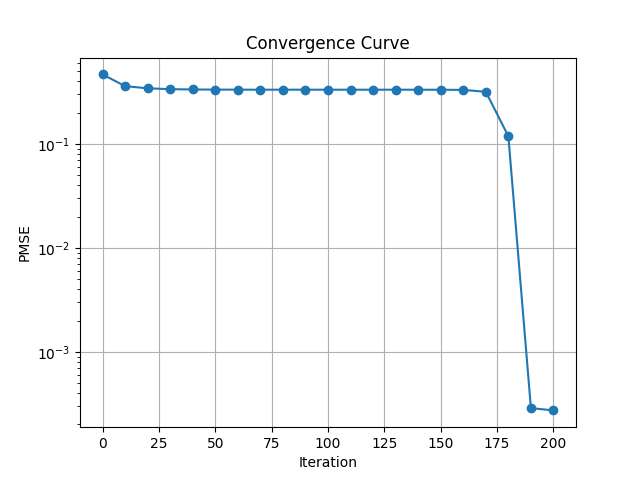
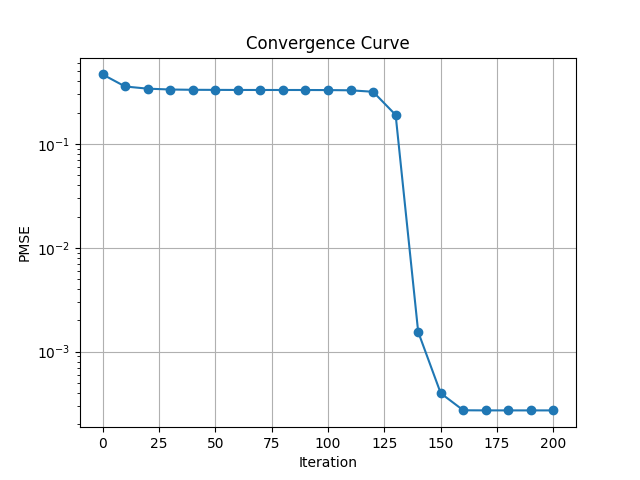
Update coded diffraction pattern example to use replicate() with ForkPropagator; verified image reconstruction

diff --git a/examples/scripts/coded_diffraction_pattern/results/graph.html b/examples/scripts/coded_diffraction_pattern/results/graph.html
@@ -18,10 +18,10 @@
     </script>
   </head>
   <body>
-    <div id="a2020c4d-887a-46b9-96d4-8581a7f252d2" data-root-id="p1012" style="display: contents;"></div>
+    <div id="ee065cf1-da5c-4bfa-bf98-d306f97d458b" data-root-id="p1012" style="display: contents;"></div>
   
-    <script type="application/json" id="aad2d40a-52ef-42b5-953d-aa531255dbfd">
-      {"eaed48ab-e2ff-4780-aabf-d3735261245a":{"version":"3.7.3","title":"Bokeh Application","roots":[{"type":"object","name":"Figure","id":"p1012","attributes":{"width":800,"x_range":{"type":"object","name":"DataRange1d","id":"p1013"},"y_range":{"type":"object","name":"DataRange1d","id":"p1014"},"x_scale":{"type":"object","name":"LinearScale","id":"p1022"},"y_scale":{"type":"object","name":"LinearScale","id":"p1023"},"title":{"type":"object","name":"Title","id":"p1015","attributes":{"text":"Computational Factor Graph"}},"renderers":[{"type":"object","name":"GlyphRenderer","id":"p1045","attributes":{"data_source":{"type":"object","name":"ColumnDataSource","id":"p1003","attributes":{"selected":{"type":"object","name":"Selection","id":"p1004","attributes":{"indices":[],"line_indices":[]}},"selection_policy":{"type":"object","name":"UnionRenderers","id":"p1005"},"data":{"type":"map","entries":[["x",[563.6,334.6,105.6,334.6,105.6,334.6,563.6,334.6,563.6,105.6,105.6,334.6,105.6,334.6,334.6,563.6,563.6]],["y",[-90.0,-378.0,-234.0,-234.0,-90.0,-90.0,-234.0,-450.0,-18.0,-306.0,-162.0,-162.0,-18.0,-18.0,-306.0,-306.0,-162.0]],["type",["wave","wave","wave","wave","wave","wave","wave","factor","factor","factor","factor","factor","factor","factor","factor","factor","factor"]],["label",["Wave","sample","Wave","Wave","Wave","Wave","Wave","GaussianPrior","measurement_1","MultiplyConstPropagator","FFT2DPropagator","FFT2DPropagator","measurement_2","measurement_0","MultiplyConstPropagator","MultiplyConstPropagator","FFT2DPropagator"]],["color",["skyblue","skyblue","skyblue","skyblue","skyblue","skyblue","skyblue","lightgreen","lightgreen","lightgreen","lightgreen","lightgreen","lightgreen","lightgreen","lightgreen","lightgreen","lightgreen"]]]}}},"view":{"type":"object","name":"CDSView","id":"p1007","attributes":{"filter":{"type":"object","name":"BooleanFilter","id":"p1006","attributes":{"booleans":[true,true,true,true,true,true,true,false,false,false,false,false,false,false,false,false,false]}}}},"glyph":{"type":"object","name":"Scatter","id":"p1042","attributes":{"x":{"type":"field","field":"x"},"y":{"type":"field","field":"y"},"size":{"type":"value","value":18},"line_color":{"type":"value","value":"skyblue"},"fill_color":{"type":"value","value":"skyblue"},"hatch_color":{"type":"value","value":"skyblue"}}},"nonselection_glyph":{"type":"object","name":"Scatter","id":"p1043","attributes":{"x":{"type":"field","field":"x"},"y":{"type":"field","field":"y"},"size":{"type":"value","value":18},"line_color":{"type":"value","value":"skyblue"},"line_alpha":{"type":"value","value":0.1},"fill_color":{"type":"value","value":"skyblue"},"fill_alpha":{"type":"value","value":0.1},"hatch_color":{"type":"value","value":"skyblue"},"hatch_alpha":{"type":"value","value":0.1}}},"muted_glyph":{"type":"object","name":"Scatter","id":"p1044","attributes":{"x":{"type":"field","field":"x"},"y":{"type":"field","field":"y"},"size":{"type":"value","value":18},"line_color":{"type":"value","value":"skyblue"},"line_alpha":{"type":"value","value":0.2},"fill_color":{"type":"value","value":"skyblue"},"fill_alpha":{"type":"value","value":0.2},"hatch_color":{"type":"value","value":"skyblue"},"hatch_alpha":{"type":"value","value":0.2}}}}},{"type":"object","name":"GlyphRenderer","id":"p1056","attributes":{"data_source":{"id":"p1003"},"view":{"type":"object","name":"CDSView","id":"p1010","attributes":{"filter":{"type":"object","name":"BooleanFilter","id":"p1009","attributes":{"booleans":[false,false,false,false,false,false,false,true,true,true,true,true,true,true,true,true,true]}}}},"glyph":{"type":"object","name":"Scatter","id":"p1053","attributes":{"x":{"type":"field","field":"x"},"y":{"type":"field","field":"y"},"size":{"type":"value","value":18},"line_color":{"type":"value","value":"lightgreen"},"fill_color":{"type":"value","value":"lightgreen"},"hatch_color":{"type":"value","value":"lightgreen"},"marker":{"type":"value","value":"square"}}},"nonselection_glyph":{"type":"object","name":"Scatter","id":"p1054","attributes":{"x":{"type":"field","field":"x"},"y":{"type":"field","field":"y"},"size":{"type":"value","value":18},"line_color":{"type":"value","value":"lightgreen"},"line_alpha":{"type":"value","value":0.1},"fill_color":{"type":"value","value":"lightgreen"},"fill_alpha":{"type":"value","value":0.1},"hatch_color":{"type":"value","value":"lightgreen"},"hatch_alpha":{"type":"value","value":0.1},"marker":{"type":"value","value":"square"}}},"muted_glyph":{"type":"object","name":"Scatter","id":"p1055","attributes":{"x":{"type":"field","field":"x"},"y":{"type":"field","field":"y"},"size":{"type":"value","value":18},"line_color":{"type":"value","value":"lightgreen"},"line_alpha":{"type":"value","value":0.2},"fill_color":{"type":"value","value":"lightgreen"},"fill_alpha":{"type":"value","value":0.2},"hatch_color":{"type":"value","value":"lightgreen"},"hatch_alpha":{"type":"value","value":0.2},"marker":{"type":"value","value":"square"}}}}}],"toolbar":{"type":"object","name":"Toolbar","id":"p1021","attributes":{"tools":[{"type":"object","name":"PanTool","id":"p1034"},{"type":"object","name":"ResetTool","id":"p1035"},{"type":"object","name":"ZoomInTool","id":"p1036","attributes":{"renderers":"auto"}},{"type":"object","name":"ZoomOutTool","id":"p1037","attributes":{"renderers":"auto"}},{"type":"object","name":"SaveTool","id":"p1038"}]}},"left":[{"type":"object","name":"LinearAxis","id":"p1029","attributes":{"visible":false,"ticker":{"type":"object","name":"BasicTicker","id":"p1030","attributes":{"mantissas":[1,2,5]}},"formatter":{"type":"object","name":"BasicTickFormatter","id":"p1031"},"major_label_policy":{"type":"object","name":"AllLabels","id":"p1032"}}}],"below":[{"type":"object","name":"LinearAxis","id":"p1024","attributes":{"visible":false,"ticker":{"type":"object","name":"BasicTicker","id":"p1025","attributes":{"mantissas":[1,2,5]}},"formatter":{"type":"object","name":"BasicTickFormatter","id":"p1026"},"major_label_policy":{"type":"object","name":"AllLabels","id":"p1027"}}}],"center":[{"type":"object","name":"Grid","id":"p1028","attributes":{"visible":false,"axis":{"id":"p1024"}}},{"type":"object","name":"Grid","id":"p1033","attributes":{"visible":false,"dimension":1,"axis":{"id":"p1029"}}},{"type":"object","name":"Legend","id":"p1048","attributes":{"visible":false,"items":[{"type":"object","name":"LegendItem","id":"p1049","attributes":{"label":{"type":"value","value":"Wave"},"renderers":[{"id":"p1045"}]}},{"type":"object","name":"LegendItem","id":"p1059","attributes":{"label":{"type":"value","value":"Factor"},"renderers":[{"id":"p1056"}]}}]}},{"type":"object","name":"LabelSet","id":"p1060","attributes":{"source":{"id":"p1003"},"x":{"type":"field","field":"x"},"y":{"type":"field","field":"y"},"text":{"type":"field","field":"label"},"y_offset":{"type":"value","value":12},"text_font_size":{"type":"value","value":"11pt"},"text_align":{"type":"value","value":"center"}}},{"type":"object","name":"Arrow","id":"p1065","attributes":{"source":{"type":"object","name":"ColumnDataSource","id":"p1067","attributes":{"selected":{"type":"object","name":"Selection","id":"p1068","attributes":{"indices":[],"line_indices":[]}},"selection_policy":{"type":"object","name":"UnionRenderers","id":"p1069"},"data":{"type":"map"}}},"x_start":{"type":"value","value":334.6},"y_start":{"type":"value","value":-450.0},"x_end":{"type":"value","value":334.6},"y_end":{"type":"value","value":-378.0},"end":{"type":"object","name":"NormalHead","id":"p1064","attributes":{"size":{"type":"value","value":6}}},"line_color":{"type":"value","value":"gray"},"line_alpha":{"type":"value","value":0.4},"line_width":{"type":"value","value":1.5}}},{"type":"object","name":"Arrow","id":"p1071","attributes":{"source":{"type":"object","name":"ColumnDataSource","id":"p1073","attributes":{"selected":{"type":"object","name":"Selection","id":"p1074","attributes":{"indices":[],"line_indices":[]}},"selection_policy":{"type":"object","name":"UnionRenderers","id":"p1075"},"data":{"type":"map"}}},"x_start":{"type":"value","value":563.6},"y_start":{"type":"value","value":-90.0},"x_end":{"type":"value","value":563.6},"y_end":{"type":"value","value":-18.0},"end":{"type":"object","name":"NormalHead","id":"p1070","attributes":{"size":{"type":"value","value":6}}},"line_color":{"type":"value","value":"gray"},"line_alpha":{"type":"value","value":0.4},"line_width":{"type":"value","value":1.5}}},{"type":"object","name":"Arrow","id":"p1077","attributes":{"source":{"type":"object","name":"ColumnDataSource","id":"p1079","attributes":{"selected":{"type":"object","name":"Selection","id":"p1080","attributes":{"indices":[],"line_indices":[]}},"selection_policy":{"type":"object","name":"UnionRenderers","id":"p1081"},"data":{"type":"map"}}},"x_start":{"type":"value","value":334.6},"y_start":{"type":"value","value":-378.0},"x_end":{"type":"value","value":105.6},"y_end":{"type":"value","value":-306.0},"end":{"type":"object","name":"NormalHead","id":"p1076","attributes":{"size":{"type":"value","value":6}}},"line_color":{"type":"value","value":"gray"},"line_alpha":{"type":"value","value":0.4},"line_width":{"type":"value","value":1.5}}},{"type":"object","name":"Arrow","id":"p1083","attributes":{"source":{"type":"object","name":"ColumnDataSource","id":"p1085","attributes":{"selected":{"type":"object","name":"Selection","id":"p1086","attributes":{"indices":[],"line_indices":[]}},"selection_policy":{"type":"object","name":"UnionRenderers","id":"p1087"},"data":{"type":"map"}}},"x_start":{"type":"value","value":105.6},"y_start":{"type":"value","value":-306.0},"x_end":{"type":"value","value":105.6},"y_end":{"type":"value","value":-234.0},"end":{"type":"object","name":"NormalHead","id":"p1082","attributes":{"size":{"type":"value","value":6}}},"line_color":{"type":"value","value":"gray"},"line_alpha":{"type":"value","value":0.4},"line_width":{"type":"value","value":1.5}}},{"type":"object","name":"Arrow","id":"p1089","attributes":{"source":{"type":"object","name":"ColumnDataSource","id":"p1091","attributes":{"selected":{"type":"object","name":"Selection","id":"p1092","attributes":{"indices":[],"line_indices":[]}},"selection_policy":{"type":"object","name":"UnionRenderers","id":"p1093"},"data":{"type":"map"}}},"x_start":{"type":"value","value":105.6},"y_start":{"type":"value","value":-234.0},"x_end":{"type":"value","value":105.6},"y_end":{"type":"value","value":-162.0},"end":{"type":"object","name":"NormalHead","id":"p1088","attributes":{"size":{"type":"value","value":6}}},"line_color":{"type":"value","value":"gray"},"line_alpha":{"type":"value","value":0.4},"line_width":{"type":"value","value":1.5}}},{"type":"object","name":"Arrow","id":"p1095","attributes":{"source":{"type":"object","name":"ColumnDataSource","id":"p1097","attributes":{"selected":{"type":"object","name":"Selection","id":"p1098","attributes":{"indices":[],"line_indices":[]}},"selection_policy":{"type":"object","name":"UnionRenderers","id":"p1099"},"data":{"type":"map"}}},"x_start":{"type":"value","value":105.6},"y_start":{"type":"value","value":-162.0},"x_end":{"type":"value","value":105.6},"y_end":{"type":"value","value":-90.0},"end":{"type":"object","name":"NormalHead","id":"p1094","attributes":{"size":{"type":"value","value":6}}},"line_color":{"type":"value","value":"gray"},"line_alpha":{"type":"value","value":0.4},"line_width":{"type":"value","value":1.5}}},{"type":"object","name":"Arrow","id":"p1101","attributes":{"source":{"type":"object","name":"ColumnDataSource","id":"p1103","attributes":{"selected":{"type":"object","name":"Selection","id":"p1104","attributes":{"indices":[],"line_indices":[]}},"selection_policy":{"type":"object","name":"UnionRenderers","id":"p1105"},"data":{"type":"map"}}},"x_start":{"type":"value","value":334.6},"y_start":{"type":"value","value":-234.0},"x_end":{"type":"value","value":334.6},"y_end":{"type":"value","value":-162.0},"end":{"type":"object","name":"NormalHead","id":"p1100","attributes":{"size":{"type":"value","value":6}}},"line_color":{"type":"value","value":"gray"},"line_alpha":{"type":"value","value":0.4},"line_width":{"type":"value","value":1.5}}},{"type":"object","name":"Arrow","id":"p1107","attributes":{"source":{"type":"object","name":"ColumnDataSource","id":"p1109","attributes":{"selected":{"type":"object","name":"Selection","id":"p1110","attributes":{"indices":[],"line_indices":[]}},"selection_policy":{"type":"object","name":"UnionRenderers","id":"p1111"},"data":{"type":"map"}}},"x_start":{"type":"value","value":334.6},"y_start":{"type":"value","value":-162.0},"x_end":{"type":"value","value":334.6},"y_end":{"type":"value","value":-90.0},"end":{"type":"object","name":"NormalHead","id":"p1106","attributes":{"size":{"type":"value","value":6}}},"line_color":{"type":"value","value":"gray"},"line_alpha":{"type":"value","value":0.4},"line_width":{"type":"value","value":1.5}}},{"type":"object","name":"Arrow","id":"p1113","attributes":{"source":{"type":"object","name":"ColumnDataSource","id":"p1115","attributes":{"selected":{"type":"object","name":"Selection","id":"p1116","attributes":{"indices":[],"line_indices":[]}},"selection_policy":{"type":"object","name":"UnionRenderers","id":"p1117"},"data":{"type":"map"}}},"x_start":{"type":"value","value":105.6},"y_start":{"type":"value","value":-90.0},"x_end":{"type":"value","value":105.6},"y_end":{"type":"value","value":-18.0},"end":{"type":"object","name":"NormalHead","id":"p1112","attributes":{"size":{"type":"value","value":6}}},"line_color":{"type":"value","value":"gray"},"line_alpha":{"type":"value","value":0.4},"line_width":{"type":"value","value":1.5}}},{"type":"object","name":"Arrow","id":"p1119","attributes":{"source":{"type":"object","name":"ColumnDataSource","id":"p1121","attributes":{"selected":{"type":"object","name":"Selection","id":"p1122","attributes":{"indices":[],"line_indices":[]}},"selection_policy":{"type":"object","name":"UnionRenderers","id":"p1123"},"data":{"type":"map"}}},"x_start":{"type":"value","value":334.6},"y_start":{"type":"value","value":-90.0},"x_end":{"type":"value","value":334.6},"y_end":{"type":"value","value":-18.0},"end":{"type":"object","name":"NormalHead","id":"p1118","attributes":{"size":{"type":"value","value":6}}},"line_color":{"type":"value","value":"gray"},"line_alpha":{"type":"value","value":0.4},"line_width":{"type":"value","value":1.5}}},{"type":"object","name":"Arrow","id":"p1125","attributes":{"source":{"type":"object","name":"ColumnDataSource","id":"p1127","attributes":{"selected":{"type":"object","name":"Selection","id":"p1128","attributes":{"indices":[],"line_indices":[]}},"selection_policy":{"type":"object","name":"UnionRenderers","id":"p1129"},"data":{"type":"map"}}},"x_start":{"type":"value","value":334.6},"y_start":{"type":"value","value":-378.0},"x_end":{"type":"value","value":334.6},"y_end":{"type":"value","value":-306.0},"end":{"type":"object","name":"NormalHead","id":"p1124","attributes":{"size":{"type":"value","value":6}}},"line_color":{"type":"value","value":"gray"},"line_alpha":{"type":"value","value":0.4},"line_width":{"type":"value","value":1.5}}},{"type":"object","name":"Arrow","id":"p1131","attributes":{"source":{"type":"object","name":"ColumnDataSource","id":"p1133","attributes":{"selected":{"type":"object","name":"Selection","id":"p1134","attributes":{"indices":[],"line_indices":[]}},"selection_policy":{"type":"object","name":"UnionRenderers","id":"p1135"},"data":{"type":"map"}}},"x_start":{"type":"value","value":334.6},"y_start":{"type":"value","value":-306.0},"x_end":{"type":"value","value":334.6},"y_end":{"type":"value","value":-234.0},"end":{"type":"object","name":"NormalHead","id":"p1130","attributes":{"size":{"type":"value","value":6}}},"line_color":{"type":"value","value":"gray"},"line_alpha":{"type":"value","value":0.4},"line_width":{"type":"value","value":1.5}}},{"type":"object","name":"Arrow","id":"p1137","attributes":{"source":{"type":"object","name":"ColumnDataSource","id":"p1139","attributes":{"selected":{"type":"object","name":"Selection","id":"p1140","attributes":{"indices":[],"line_indices":[]}},"selection_policy":{"type":"object","name":"UnionRenderers","id":"p1141"},"data":{"type":"map"}}},"x_start":{"type":"value","value":334.6},"y_start":{"type":"value","value":-378.0},"x_end":{"type":"value","value":563.6},"y_end":{"type":"value","value":-306.0},"end":{"type":"object","name":"NormalHead","id":"p1136","attributes":{"size":{"type":"value","value":6}}},"line_color":{"type":"value","value":"gray"},"line_alpha":{"type":"value","value":0.4},"line_width":{"type":"value","value":1.5}}},{"type":"object","name":"Arrow","id":"p1143","attributes":{"source":{"type":"object","name":"ColumnDataSource","id":"p1145","attributes":{"selected":{"type":"object","name":"Selection","id":"p1146","attributes":{"indices":[],"line_indices":[]}},"selection_policy":{"type":"object","name":"UnionRenderers","id":"p1147"},"data":{"type":"map"}}},"x_start":{"type":"value","value":563.6},"y_start":{"type":"value","value":-306.0},"x_end":{"type":"value","value":563.6},"y_end":{"type":"value","value":-234.0},"end":{"type":"object","name":"NormalHead","id":"p1142","attributes":{"size":{"type":"value","value":6}}},"line_color":{"type":"value","value":"gray"},"line_alpha":{"type":"value","value":0.4},"line_width":{"type":"value","value":1.5}}},{"type":"object","name":"Arrow","id":"p1149","attributes":{"source":{"type":"object","name":"ColumnDataSource","id":"p1151","attributes":{"selected":{"type":"object","name":"Selection","id":"p1152","attributes":{"indices":[],"line_indices":[]}},"selection_policy":{"type":"object","name":"UnionRenderers","id":"p1153"},"data":{"type":"map"}}},"x_start":{"type":"value","value":563.6},"y_start":{"type":"value","value":-234.0},"x_end":{"type":"value","value":563.6},"y_end":{"type":"value","value":-162.0},"end":{"type":"object","name":"NormalHead","id":"p1148","attributes":{"size":{"type":"value","value":6}}},"line_color":{"type":"value","value":"gray"},"line_alpha":{"type":"value","value":0.4},"line_width":{"type":"value","value":1.5}}},{"type":"object","name":"Arrow","id":"p1155","attributes":{"source":{"type":"object","name":"ColumnDataSource","id":"p1157","attributes":{"selected":{"type":"object","name":"Selection","id":"p1158","attributes":{"indices":[],"line_indices":[]}},"selection_policy":{"type":"object","name":"UnionRenderers","id":"p1159"},"data":{"type":"map"}}},"x_start":{"type":"value","value":563.6},"y_start":{"type":"value","value":-162.0},"x_end":{"type":"value","value":563.6},"y_end":{"type":"value","value":-90.0},"end":{"type":"object","name":"NormalHead","id":"p1154","attributes":{"size":{"type":"value","value":6}}},"line_color":{"type":"value","value":"gray"},"line_alpha":{"type":"value","value":0.4},"line_width":{"type":"value","value":1.5}}}]}}]}}
+    <script type="application/json" id="b33dd5ed-a03d-470c-9024-d944674525e5">
+      {"a03519e3-91a5-44a5-9546-2bd6b310779a":{"version":"3.7.3","title":"Bokeh Application","roots":[{"type":"object","name":"Figure","id":"p1012","attributes":{"width":800,"x_range":{"type":"object","name":"DataRange1d","id":"p1013"},"y_range":{"type":"object","name":"DataRange1d","id":"p1014"},"x_scale":{"type":"object","name":"LinearScale","id":"p1022"},"y_scale":{"type":"object","name":"LinearScale","id":"p1023"},"title":{"type":"object","name":"Title","id":"p1015","attributes":{"text":"Computational Factor Graph"}},"renderers":[{"type":"object","name":"GlyphRenderer","id":"p1045","attributes":{"data_source":{"type":"object","name":"ColumnDataSource","id":"p1003","attributes":{"selected":{"type":"object","name":"Selection","id":"p1004","attributes":{"indices":[],"line_indices":[]}},"selection_policy":{"type":"object","name":"UnionRenderers","id":"p1005"},"data":{"type":"map","entries":[["x",[105.6,105.6,105.6,105.6,105.6,105.6,105.6,105.6,105.6]],["y",[-522.0,-234.0,-90.0,-378.0,-594.0,-306.0,-450.0,-18.0,-162.0]],["type",["wave","wave","wave","wave","factor","factor","factor","factor","factor"]],["label",["sample","Wave","Wave","Wave","GaussianPrior","MultiplyConstPropagator","ForkPropagator","measurement_0","FFT2DPropagator"]],["color",["skyblue","skyblue","skyblue","skyblue","lightgreen","lightgreen","lightgreen","lightgreen","lightgreen"]]]}}},"view":{"type":"object","name":"CDSView","id":"p1007","attributes":{"filter":{"type":"object","name":"BooleanFilter","id":"p1006","attributes":{"booleans":[true,true,true,true,false,false,false,false,false]}}}},"glyph":{"type":"object","name":"Scatter","id":"p1042","attributes":{"x":{"type":"field","field":"x"},"y":{"type":"field","field":"y"},"size":{"type":"value","value":18},"line_color":{"type":"value","value":"skyblue"},"fill_color":{"type":"value","value":"skyblue"},"hatch_color":{"type":"value","value":"skyblue"}}},"nonselection_glyph":{"type":"object","name":"Scatter","id":"p1043","attributes":{"x":{"type":"field","field":"x"},"y":{"type":"field","field":"y"},"size":{"type":"value","value":18},"line_color":{"type":"value","value":"skyblue"},"line_alpha":{"type":"value","value":0.1},"fill_color":{"type":"value","value":"skyblue"},"fill_alpha":{"type":"value","value":0.1},"hatch_color":{"type":"value","value":"skyblue"},"hatch_alpha":{"type":"value","value":0.1}}},"muted_glyph":{"type":"object","name":"Scatter","id":"p1044","attributes":{"x":{"type":"field","field":"x"},"y":{"type":"field","field":"y"},"size":{"type":"value","value":18},"line_color":{"type":"value","value":"skyblue"},"line_alpha":{"type":"value","value":0.2},"fill_color":{"type":"value","value":"skyblue"},"fill_alpha":{"type":"value","value":0.2},"hatch_color":{"type":"value","value":"skyblue"},"hatch_alpha":{"type":"value","value":0.2}}}}},{"type":"object","name":"GlyphRenderer","id":"p1056","attributes":{"data_source":{"id":"p1003"},"view":{"type":"object","name":"CDSView","id":"p1010","attributes":{"filter":{"type":"object","name":"BooleanFilter","id":"p1009","attributes":{"booleans":[false,false,false,false,true,true,true,true,true]}}}},"glyph":{"type":"object","name":"Scatter","id":"p1053","attributes":{"x":{"type":"field","field":"x"},"y":{"type":"field","field":"y"},"size":{"type":"value","value":18},"line_color":{"type":"value","value":"lightgreen"},"fill_color":{"type":"value","value":"lightgreen"},"hatch_color":{"type":"value","value":"lightgreen"},"marker":{"type":"value","value":"square"}}},"nonselection_glyph":{"type":"object","name":"Scatter","id":"p1054","attributes":{"x":{"type":"field","field":"x"},"y":{"type":"field","field":"y"},"size":{"type":"value","value":18},"line_color":{"type":"value","value":"lightgreen"},"line_alpha":{"type":"value","value":0.1},"fill_color":{"type":"value","value":"lightgreen"},"fill_alpha":{"type":"value","value":0.1},"hatch_color":{"type":"value","value":"lightgreen"},"hatch_alpha":{"type":"value","value":0.1},"marker":{"type":"value","value":"square"}}},"muted_glyph":{"type":"object","name":"Scatter","id":"p1055","attributes":{"x":{"type":"field","field":"x"},"y":{"type":"field","field":"y"},"size":{"type":"value","value":18},"line_color":{"type":"value","value":"lightgreen"},"line_alpha":{"type":"value","value":0.2},"fill_color":{"type":"value","value":"lightgreen"},"fill_alpha":{"type":"value","value":0.2},"hatch_color":{"type":"value","value":"lightgreen"},"hatch_alpha":{"type":"value","value":0.2},"marker":{"type":"value","value":"square"}}}}}],"toolbar":{"type":"object","name":"Toolbar","id":"p1021","attributes":{"tools":[{"type":"object","name":"PanTool","id":"p1034"},{"type":"object","name":"ResetTool","id":"p1035"},{"type":"object","name":"ZoomInTool","id":"p1036","attributes":{"renderers":"auto"}},{"type":"object","name":"ZoomOutTool","id":"p1037","attributes":{"renderers":"auto"}},{"type":"object","name":"SaveTool","id":"p1038"}]}},"left":[{"type":"object","name":"LinearAxis","id":"p1029","attributes":{"visible":false,"ticker":{"type":"object","name":"BasicTicker","id":"p1030","attributes":{"mantissas":[1,2,5]}},"formatter":{"type":"object","name":"BasicTickFormatter","id":"p1031"},"major_label_policy":{"type":"object","name":"AllLabels","id":"p1032"}}}],"below":[{"type":"object","name":"LinearAxis","id":"p1024","attributes":{"visible":false,"ticker":{"type":"object","name":"BasicTicker","id":"p1025","attributes":{"mantissas":[1,2,5]}},"formatter":{"type":"object","name":"BasicTickFormatter","id":"p1026"},"major_label_policy":{"type":"object","name":"AllLabels","id":"p1027"}}}],"center":[{"type":"object","name":"Grid","id":"p1028","attributes":{"visible":false,"axis":{"id":"p1024"}}},{"type":"object","name":"Grid","id":"p1033","attributes":{"visible":false,"dimension":1,"axis":{"id":"p1029"}}},{"type":"object","name":"Legend","id":"p1048","attributes":{"visible":false,"items":[{"type":"object","name":"LegendItem","id":"p1049","attributes":{"label":{"type":"value","value":"Wave"},"renderers":[{"id":"p1045"}]}},{"type":"object","name":"LegendItem","id":"p1059","attributes":{"label":{"type":"value","value":"Factor"},"renderers":[{"id":"p1056"}]}}]}},{"type":"object","name":"LabelSet","id":"p1060","attributes":{"source":{"id":"p1003"},"x":{"type":"field","field":"x"},"y":{"type":"field","field":"y"},"text":{"type":"field","field":"label"},"y_offset":{"type":"value","value":12},"text_font_size":{"type":"value","value":"11pt"},"text_align":{"type":"value","value":"center"}}},{"type":"object","name":"Arrow","id":"p1065","attributes":{"source":{"type":"object","name":"ColumnDataSource","id":"p1067","attributes":{"selected":{"type":"object","name":"Selection","id":"p1068","attributes":{"indices":[],"line_indices":[]}},"selection_policy":{"type":"object","name":"UnionRenderers","id":"p1069"},"data":{"type":"map"}}},"x_start":{"type":"value","value":105.6},"y_start":{"type":"value","value":-594.0},"x_end":{"type":"value","value":105.6},"y_end":{"type":"value","value":-522.0},"end":{"type":"object","name":"NormalHead","id":"p1064","attributes":{"size":{"type":"value","value":6}}},"line_color":{"type":"value","value":"gray"},"line_alpha":{"type":"value","value":0.4},"line_width":{"type":"value","value":1.5}}},{"type":"object","name":"Arrow","id":"p1071","attributes":{"source":{"type":"object","name":"ColumnDataSource","id":"p1073","attributes":{"selected":{"type":"object","name":"Selection","id":"p1074","attributes":{"indices":[],"line_indices":[]}},"selection_policy":{"type":"object","name":"UnionRenderers","id":"p1075"},"data":{"type":"map"}}},"x_start":{"type":"value","value":105.6},"y_start":{"type":"value","value":-378.0},"x_end":{"type":"value","value":105.6},"y_end":{"type":"value","value":-306.0},"end":{"type":"object","name":"NormalHead","id":"p1070","attributes":{"size":{"type":"value","value":6}}},"line_color":{"type":"value","value":"gray"},"line_alpha":{"type":"value","value":0.4},"line_width":{"type":"value","value":1.5}}},{"type":"object","name":"Arrow","id":"p1077","attributes":{"source":{"type":"object","name":"ColumnDataSource","id":"p1079","attributes":{"selected":{"type":"object","name":"Selection","id":"p1080","attributes":{"indices":[],"line_indices":[]}},"selection_policy":{"type":"object","name":"UnionRenderers","id":"p1081"},"data":{"type":"map"}}},"x_start":{"type":"value","value":105.6},"y_start":{"type":"value","value":-306.0},"x_end":{"type":"value","value":105.6},"y_end":{"type":"value","value":-234.0},"end":{"type":"object","name":"NormalHead","id":"p1076","attributes":{"size":{"type":"value","value":6}}},"line_color":{"type":"value","value":"gray"},"line_alpha":{"type":"value","value":0.4},"line_width":{"type":"value","value":1.5}}},{"type":"object","name":"Arrow","id":"p1083","attributes":{"source":{"type":"object","name":"ColumnDataSource","id":"p1085","attributes":{"selected":{"type":"object","name":"Selection","id":"p1086","attributes":{"indices":[],"line_indices":[]}},"selection_policy":{"type":"object","name":"UnionRenderers","id":"p1087"},"data":{"type":"map"}}},"x_start":{"type":"value","value":105.6},"y_start":{"type":"value","value":-522.0},"x_end":{"type":"value","value":105.6},"y_end":{"type":"value","value":-450.0},"end":{"type":"object","name":"NormalHead","id":"p1082","attributes":{"size":{"type":"value","value":6}}},"line_color":{"type":"value","value":"gray"},"line_alpha":{"type":"value","value":0.4},"line_width":{"type":"value","value":1.5}}},{"type":"object","name":"Arrow","id":"p1089","attributes":{"source":{"type":"object","name":"ColumnDataSource","id":"p1091","attributes":{"selected":{"type":"object","name":"Selection","id":"p1092","attributes":{"indices":[],"line_indices":[]}},"selection_policy":{"type":"object","name":"UnionRenderers","id":"p1093"},"data":{"type":"map"}}},"x_start":{"type":"value","value":105.6},"y_start":{"type":"value","value":-450.0},"x_end":{"type":"value","value":105.6},"y_end":{"type":"value","value":-378.0},"end":{"type":"object","name":"NormalHead","id":"p1088","attributes":{"size":{"type":"value","value":6}}},"line_color":{"type":"value","value":"gray"},"line_alpha":{"type":"value","value":0.4},"line_width":{"type":"value","value":1.5}}},{"type":"object","name":"Arrow","id":"p1095","attributes":{"source":{"type":"object","name":"ColumnDataSource","id":"p1097","attributes":{"selected":{"type":"object","name":"Selection","id":"p1098","attributes":{"indices":[],"line_indices":[]}},"selection_policy":{"type":"object","name":"UnionRenderers","id":"p1099"},"data":{"type":"map"}}},"x_start":{"type":"value","value":105.6},"y_start":{"type":"value","value":-90.0},"x_end":{"type":"value","value":105.6},"y_end":{"type":"value","value":-18.0},"end":{"type":"object","name":"NormalHead","id":"p1094","attributes":{"size":{"type":"value","value":6}}},"line_color":{"type":"value","value":"gray"},"line_alpha":{"type":"value","value":0.4},"line_width":{"type":"value","value":1.5}}},{"type":"object","name":"Arrow","id":"p1101","attributes":{"source":{"type":"object","name":"ColumnDataSource","id":"p1103","attributes":{"selected":{"type":"object","name":"Selection","id":"p1104","attributes":{"indices":[],"line_indices":[]}},"selection_policy":{"type":"object","name":"UnionRenderers","id":"p1105"},"data":{"type":"map"}}},"x_start":{"type":"value","value":105.6},"y_start":{"type":"value","value":-234.0},"x_end":{"type":"value","value":105.6},"y_end":{"type":"value","value":-162.0},"end":{"type":"object","name":"NormalHead","id":"p1100","attributes":{"size":{"type":"value","value":6}}},"line_color":{"type":"value","value":"gray"},"line_alpha":{"type":"value","value":0.4},"line_width":{"type":"value","value":1.5}}},{"type":"object","name":"Arrow","id":"p1107","attributes":{"source":{"type":"object","name":"ColumnDataSource","id":"p1109","attributes":{"selected":{"type":"object","name":"Selection","id":"p1110","attributes":{"indices":[],"line_indices":[]}},"selection_policy":{"type":"object","name":"UnionRenderers","id":"p1111"},"data":{"type":"map"}}},"x_start":{"type":"value","value":105.6},"y_start":{"type":"value","value":-162.0},"x_end":{"type":"value","value":105.6},"y_end":{"type":"value","value":-90.0},"end":{"type":"object","name":"NormalHead","id":"p1106","attributes":{"size":{"type":"value","value":6}}},"line_color":{"type":"value","value":"gray"},"line_alpha":{"type":"value","value":0.4},"line_width":{"type":"value","value":1.5}}}]}}]}}
     </script>
     <script type="text/javascript">
       (function() {
@@ -29,8 +29,8 @@
           Bokeh.safely(function() {
             (function(root) {
               function embed_document(root) {
-              const docs_json = document.getElementById('aad2d40a-52ef-42b5-953d-aa531255dbfd').textContent;
-              const render_items = [{"docid":"eaed48ab-e2ff-4780-aabf-d3735261245a","roots":{"p1012":"a2020c4d-887a-46b9-96d4-8581a7f252d2"},"root_ids":["p1012"]}];
+              const docs_json = document.getElementById('b33dd5ed-a03d-470c-9024-d944674525e5').textContent;
+              const render_items = [{"docid":"a03519e3-91a5-44a5-9546-2bd6b310779a","roots":{"p1012":"ee065cf1-da5c-4bfa-bf98-d306f97d458b"},"root_ids":["p1012"]}];
               root.Bokeh.embed.embed_items(docs_json, render_items);
               }
               if (root.Bokeh !== undefined) {

diff --git a/examples/scripts/coded_diffraction_pattern/coded_diffraction_pattern.py b/examples/scripts/coded_diffraction_pattern/coded_diffraction_pattern.py
@@ -2,7 +2,7 @@ import argparse
 import numpy as np
 import matplotlib.pyplot as plt
 
-from gpie import model, GaussianPrior, fft2, AmplitudeMeasurement, pmse
+from gpie import model, GaussianPrior, fft2, AmplitudeMeasurement, pmse, replicate
 from gpie.core.linalg_utils import random_phase_mask
 import sys
 import os
@@ -17,19 +17,36 @@ os.makedirs(RESULTS_DIR, exist_ok=True)
 
 @model
 def coded_diffraction_pattern(shape, n_measurements, phase_masks, noise):
-    x = ~GaussianPrior(event_shape=shape, label="sample", dtype = np.complex64)
-    for i in range(n_measurements):
-        y = phase_masks[i] * x
-        z = fft2(y)
-        AmplitudeMeasurement(var=noise, damping=0.3) << z
+    """
+    Coded diffraction pattern model using ForkPropagator via replicate().
+    phase_masks: ndarray of shape (B, H, W)
+    """
+    H, W = shape
+    B = n_measurements
+
+    # Prior object
+    x = ~GaussianPrior(event_shape=shape, label="sample", dtype=np.complex64)
+
+    # Replicate across batch dimension
+    x_batch = replicate(x, batch_size=B)
+
+    # Apply masks and FFT
+    y = fft2(phase_masks * x_batch)
+
+    # Amplitude measurement (batched)
+    AmplitudeMeasurement(var=noise, damping=0.3) << y
 
 
 def build_cdp_graph(H=256, W=256, noise=1e-4, n_measurements=4):
     rng = np.random.default_rng(seed=42)
     shape = (H, W)
-    phase_masks = [random_phase_mask(shape, rng=rng, dtype=np.complex64) for _ in range(n_measurements)]
+    # batched phase masks
+    phase_masks = random_phase_mask((n_measurements, *shape), rng=rng, dtype=np.complex64)
 
-    g = coded_diffraction_pattern(shape = shape, n_measurements = n_measurements, phase_masks = phase_masks, noise = noise)
+    g = coded_diffraction_pattern(shape=shape,
+                                  n_measurements=n_measurements,
+                                  phase_masks=phase_masks,
+                                  noise=noise)
     g.set_init_rng(np.random.default_rng(seed=1))
 
     amp = load_sample_image("camera", shape=shape)
